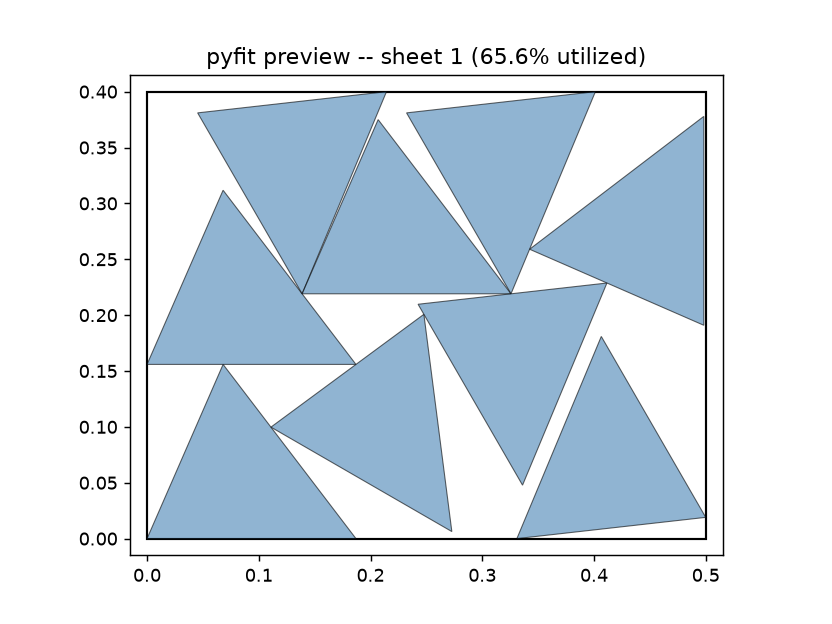
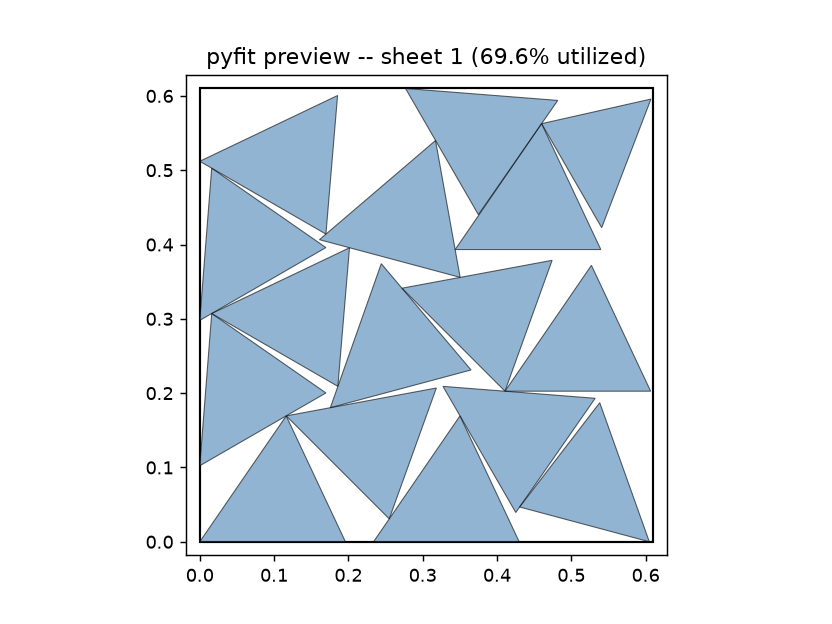
Book: revise Chapter 20 (full-Lair nest at build radius, re-run mirror experiment, new figure, Interpol heat)

diff --git a/book/chapter-20-from-bill-of-materials-to-job-spec.md b/book/chapter-20-from-bill-of-materials-to-job-spec.md
@@ -1,20 +1,22 @@
 # Chapter 20: From Bill of Materials to Job Spec — Nesting the Actual Secret Lair's Panels
 
-Chapter 19 proved pyFit works on its own terms. This chapter makes it work on pyLair's: a real job spec, built directly from the Actual Secret Lair's own bill of materials, with zero hand-typed quantities anywhere in it — and the real, sometimes surprising, numbers that come back once actual dome panels, not unit squares, are the shapes being nested.
+The CFV's concern about plywood had sharpened into a concern about trucks. Every sheet had to reach a dormant volcano by road, and a convoy of lumber trucks climbing toward an uninhabited crater is precisely the kind of thing that raises the Interpol heat. "Fewer sheets," she said, "is fewer trucks, is fewer questions." She wanted a number, and she wanted it before anyone ordered anything.
 
-## Building a Job Spec With Zero Hand-Typing
+Chapter 19 showed pyFit working on its own terms. This chapter puts it to work on pyLair's: a job spec built straight from the Actual Secret Lair's bill of materials, with no quantity typed by hand, and the numbers that come back once real dome panels, not unit squares, are being nested.
 
-Chapter 15 already generates exactly the file pyFit needs: `face_templates` writes one DXF per distinct panel shape, and the same report that triggers those files carries a **"Panel Cutting Templates"** section pairing each one with its own real panel count:
+## A Job Spec With No Hand-Typing
+
+Chapter 15 already produces the files pyFit needs: `face_templates=True` writes one DXF per distinct panel shape, and the same report carries a **"Panel Cutting Templates"** section pairing each file with its panel count. Here is the first entry, for the Lair at its build radius of 2.5 meters (one of 52):
 
 ```json
-{"template_file": "lair_facetype1.dxf", "edge_lengths": [0.248, 0.282, 0.337], "panel_count": 5}
-{"template_file": "lair_facetype2.dxf", "edge_lengths": [0.213, 0.337, 0.352], "panel_count": 5}
+{"template_file": "lair_facetype1.dxf", "edge_lengths": [0.621, 0.705, 0.843], "panel_count": 5,
+ "face_indices": [0, 17, 47, 72, 97], "chiral": false, "orientations": null}
 ```
 
-A pyFit job spec's `"parts"` list needs exactly two things per shape — a `"dxf"` path and a `"quantity"` — and this report already hands you both, paired, for every one of this dome's 52 distinct panel shapes:
+A pyFit job spec's `"parts"` list needs two things per shape, a `"dxf"` path and a `"quantity"`, and the report supplies both, already paired, for all 52 shapes:
 
 ```python
-templates = bom_report["pyLair report"]["Panel Cutting Templates"]
+templates = report["pyLair report"]["Panel Cutting Templates"]
 parts = [
     {"name": f"facetype{i+1}", "dxf": t["template_file"], "quantity": t["panel_count"], "allow_mirror": True}
     for i, t in enumerate(templates)
@@ -22,52 +24,70 @@ parts = [
 job = {"sheet": {"width": 2.44, "height": 1.22}, "parts": parts}
 ```
 
-**260 total panels, 52 distinct shapes, zero numbers typed by hand** — every quantity traced directly back to a real count pyLair itself already computed. This is the entire point of the two projects sharing nothing but a file format: pyLair never needs to know pyFit exists, and this job spec never needed anything from pyLair except files it was already writing anyway.
+**260 panels, 52 shapes, no number typed by hand**: every quantity traces to a count pyLair computed. That's the point of two projects sharing only a file format. pyLair never needs to know pyFit exists, and the job spec needs nothing from pyLair but files it was writing anyway. (`allow_mirror: True` is fine here: the Lair has no chiral panels, Chapter 14 found, and its panels are plain plywood.)
 
-## A Real Job, and a Real Lesson About Job Size
+## The Full Job, and a Lesson About Job Size
 
-Running this exact 260-panel, 52-shape job on a full-size `2.44m × 1.22m` sheet (a standard 8-foot-by-4-foot panel, in meters) is where this chapter's first honest lesson shows up, live rather than theoretical. pyFit's own documentation already warns that reusing scrap across sheets costs real search time on large jobs — every part instance tries each already-opened sheet before starting a new one, and each try means a full NFP-based candidate search against everything already placed there. On a sheet this large relative to a `~0.2`-unit panel, dozens of panels can fit before a new sheet ever opens, and the per-sheet candidate search grows with the *square* of how many panels are already placed on it.
-
-This isn't a hypothetical: the exact job above, at the default rotation step, was still running — correctly, not stuck, just genuinely working through an expensive search — several minutes in, having placed only a few dozen of its 260 panels. This is the real, lived version of the tradeoff Chapter 13 already taught for a completely different setting (`bom_rounding_precision`): a bigger, more permissive sheet doesn't just mean more material to work with, it means a much larger search space per sheet before pyFit ever opens the next one.
+The sheet is `2.44 m × 1.22 m`, a standard 8-by-4-foot panel in meters. Start with the floor on the answer: the Lair's panels cover about `60.5` square meters (pyLair's total panel area of `9.677` at radius 1, times `2.5²`), and a sheet is about `2.98`, so no layout can use fewer than 21 sheets.
 
 **Prompt:**
-> If packing feels slow on this many panels, what's the first setting you'd loosen, and what do I give up by loosening it?
+> Nest all 260 of the Lair's panels on 2.44 by 1.22 sheets with `design_nest`. Then try a 45-degree rotation step. How many sheets, and how long does each take?
 
-**What Comes Back:**
-> `rotation_step_degrees` is the direct lever, exactly the way `bom_rounding_precision` was pyLair's own precision/merge lever back in Chapter 13. The default (`15°`) tries 24 candidate orientations per part instance (more, once mirroring is allowed); widening it to `30°` or `45°` roughly halves or quarters that count, at the cost of a somewhat looser packing — real utilization measured a few percentage points lower, not a correctness problem. For a job this size, on a sheet this large relative to the panels, a coarser step is the honest, correct first thing to try before assuming something is stuck.
-
-**A second, real gotcha worth reporting exactly as encountered:** widening the rotation step and shrinking the sheet together, on this exact set of real dome-panel shapes, produced a genuine crash during this book's own testing — a `shapely.errors.GEOSException: TopologyException: side location conflict`, thrown from inside `no_fit_polygon`'s own `unary_union` call, at one specific `(rotation step, sheet size)` combination. It did not reproduce at the default rotation step on the same smaller sheet. This isn't the same, already-fixed Minkowski-sum issue Chapter 19 told in full — that one is resolved and covered by this project's own tests. This is a new, real edge case this book's own testing surfaced while nesting genuine pyLair panel geometry (irregular scalene triangles, not the toy squares Chapter 19 used to teach the underlying concept), worth knowing about rather than papering over: real geometry libraries have real edge cases, and a coarser rotation step occasionally lands on one, the same honest lesson Chapter 24 generalizes from a very different bug in a very different part of this book.
-
-## The Chirality Flag, Now a Packing Decision — With a Real Surprise
-
-Chapter 14 flagged panel shapes as chiral — genuinely different mirror-image orientations sharing one edge-length signature — and promised the flag would matter again once a real material's directionality was in play. Here's where it does: `allow_mirror` on a pyFit job-spec part is exactly this same question, asked at nesting time instead of design time. `true` (the default) lets pyFit flip a shape's template freely while searching for a placement — the right choice for plain, non-directional plywood, since a physical template can always be flipped over on ordinary material with no consequence. `false` forbids that entirely — the right choice for a one-sided pressure coating, a printed pattern, or any material where a mirrored cut is a genuinely different, unusable piece.
-
-**The Under-the-Ocean Prototype** is the real, previously-established reason this matters: Chapter 14 found its own elongated hull genuinely riddled with chiral panel pairs (`30` of its `42` shape groups). Its hull uses a one-sided pressure coating, so `allow_mirror: false` isn't a cautious default here — it's the physically correct one. Nesting a real subset of its own chiral panel shapes (six shape groups, `120` real panels) both ways:
+**What Comes Back** (two runs of `run_nest`, the engine under `design_nest`, timed; utilization summarized):
 
 ```json
-{"allow_mirror": true,  "sheets_used": 3, "utilization_by_sheet": [0.641, 0.611, 0.058]}
-{"allow_mirror": false, "sheets_used": 2, "utilization_by_sheet": [0.656, 0.655]}
+{"rotation_step_degrees": 15, "sheets_used": 30, "best_sheet": 0.895, "last_sheet": 0.108, "seconds": 1017}
+{"rotation_step_degrees": 45, "sheets_used": 32, "best_sheet": 0.841, "last_sheet": 0.185, "seconds": 318}
 ```
 
-**[IMAGE: examples/images/ocean_nest_mirror_true.png | Two real nesting results for the same chiral panel batch, allow_mirror true producing 3 sheets and allow_mirror false producing 2]**
-**[CAPTION: The same real chiral panel batch, nested both ways — `allow_mirror: true` (left, 3 sheets) and `allow_mirror: false` (right, 2 sheets). Both are real, legal layouts; the flag did not cost this batch an extra sheet.]**
+**What It Means:** Thirty sheets at the default step, against a floor of 21: most sheets come out between 55% and 90% full, and the last holds a few stragglers. The default took about 17 minutes (on a machine also running the other job), and the 45° step about 5 minutes for two more sheets. That is the lived version of a warning in pyFit's documentation: every part tries each already-opened sheet before a new one opens, and each try is a full no-fit-polygon search against everything on that sheet, so a big sheet that holds many panels makes every placement more expensive. It's the same shape of tradeoff Chapter 13 taught for `bom_rounding_precision`: more permissive isn't simply better.
 
-**[IMAGE: examples/images/ocean_nest_mirror_false.png | The allow_mirror false version of the same batch, using 2 sheets instead of 3]**
-**[CAPTION: TODO-CAPTION]**
-
-**Prompt:**
-> Nest it once with mirroring allowed, once without. How much does disallowing mirroring change the sheet count or utilization?
-
-**What Comes Back:** Here's the real, worth-stating-honestly surprise: disallowing mirroring used *fewer* sheets, not more — `2` against `3`, and higher utilization on both sheets it did use. This is the opposite of the intuitive assumption that removing a degree of freedom can only make packing worse.
-
-**What It Means:** Chapter 19 already told you why this can happen, and this is a real, concrete instance of it rather than a hedge: pyFit is a bottom-left-fill *heuristic*, not an exhaustive search, and a heuristic's greedy choices can go in a different, sometimes better, sometimes worse, direction depending on which candidate orientations happen to be available at each step — more legal options at every step doesn't guarantee a better *overall* sequence of greedy choices, only a larger space to choose the next one from. The honest takeaway isn't "disallowing mirroring improves packing" as a rule — a different panel batch, a different sheet size, or a different rotation step could easily flip this result the other way. It's this: **run both, and trust the real reported utilization for your actual job, not an assumption about which direction the flag should push it.**
+**[IMAGE: examples/images/lair_full_nest_sheet1.png | A pyFit preview of one 2.44-by-1.22 sheet packed with large and small triangular dome panels, interlocking point to base; the title reads 89.5 percent utilized.]**
+**[CAPTION: The first of 30 sheets for the Actual Secret Lair at its 2.5-meter radius, at the default 15° rotation step: 89.5% utilized, the best sheet of the job.]**
 
 **Prompt:**
-> If I'm using plain plywood with no grain direction, does the chirality flag actually matter for my build?
+> If packing feels slow on this many panels, what's the first setting you'd loosen, and what do I give up?
 
-**What Comes Back:** No — reusing Chapter 14's own answer to the identical question, unchanged by anything this chapter added: non-directional material can be flipped freely with no physical consequence, so `allow_mirror: true` costs nothing and gains pyFit its full search space. The flag, and this chapter's own surprising result, only matter once the material itself has a real direction that a flipped cut would actually violate.
+**What Comes Back:**
+> `rotation_step_degrees` is the direct lever. The default, `15°`, tries 24 orientations per part (twice that when mirroring is allowed); `45°` tries 8. You give up packing quality, usually a little: on this job, two extra sheets for about a third of the time. It's not a correctness problem, since every placement is still checked. On a job this size, try a coarser step before assuming something is stuck, and go back to the default for the run you'll actually cut from.
+
+The first draft of this book recorded one more surprise: a crash, `shapely.errors.GEOSException: TopologyException: side location conflict`, from inside `no_fit_polygon`, at one combination of a coarse rotation step and a smaller sheet with real dome panels. None of this revision's runs reproduced it. Geometry libraries do have edge cases that only irregular, real shapes reach; if you hit one, report the job spec that triggered it rather than assuming your design is at fault.
+
+The CFV took the 30. At ten sheets to a truck, that's three trucks, which she could disguise as a hardware delivery. Thirty-two would have needed a fourth truck, and she pointed out that it's always the fourth truck that someone remembers.
+
+## The Chirality Flag, Now a Packing Decision
+
+Chapter 14 flagged panel shapes as chiral, mirror-image orientations sharing one edge-length signature, and promised the flag would matter again once a material's direction was in play. Here it does. `allow_mirror` on a job-spec part asks the same question at nesting time. `true` (the default) lets pyFit flip a shape freely while searching, right for plain plywood, where a flipped template is harmless. `false` forbids it, right for a one-sided pressure coating, a printed pattern, or any material where a mirrored cut is a different, unusable piece.
+
+**The Under-the-Ocean Prototype** is where it matters. Its frequency-6 hull, squashed to `0.9` on Z, has 42 panel shape groups, and 30 of them are chiral; it's a Class I sphere, so it contains both hands of every lopsided panel (Chapter 14). Its hull carries a one-sided pressure coating, so `allow_mirror: false` isn't caution; it's the physically correct setting. Take six of its chiral groups, 120 panels, and nest them both ways on `0.61 × 0.61` sheets (two-foot squares; the Prototype is modeled at radius 1):
+
+**Prompt:**
+> Nest it once with mirroring allowed and once without. How much does disallowing mirroring change the sheet count or utilization?
+
+**What Comes Back** (two runs of `run_nest`, the engine under `design_nest`, timed; utilization rounded):
+
+```json
+{"allow_mirror": true,  "sheets_used": 8, "utilization_by_sheet": [0.657, 0.686, 0.648, 0.635, 0.659, 0.642, 0.640, 0.156], "seconds": 835}
+{"allow_mirror": false, "sheets_used": 7, "utilization_by_sheet": [0.696, 0.660, 0.723, 0.705, 0.705, 0.667, 0.569], "seconds": 448}
+```
+
+**[IMAGE: examples/images/ocean_nest_mirror_true.png | A pyFit preview of one small square sheet packed with about a dozen triangular panels, some of them flipped.]**
+**[CAPTION: The first of 8 sheets for six of the Under-the-Ocean Prototype's chiral panel groups with `allow_mirror: true`.]**
+
+**[IMAGE: examples/images/ocean_nest_mirror_false.png | A pyFit preview of one small square sheet packed with triangular panels, none of them flipped.]**
+**[CAPTION: The first of 7 sheets for the same 120 panels with `allow_mirror: false`: fewer sheets, though the packer had fewer options.]**
+
+**What It Means:** Here's the surprise: forbidding mirroring used *fewer* sheets, 7 against 8, with higher utilization on most of them, and it finished in about half the time, since there were half as many orientations to try. That's the opposite of the intuition that removing a degree of freedom can only make packing worse.
+
+Chapter 19 explains why it can happen. pyFit is a bottom-left-fill *heuristic*, not an exhaustive search, and its greedy choices go wherever the available options lead at each step. More legal options at every step doesn't guarantee a better *sequence* of greedy choices, only a bigger menu for the next one. The lesson isn't "disallow mirroring to save plywood": another batch, sheet size, or rotation step could flip the result. It's this: **run both, and trust the measured utilization for your job, not an assumption about which way the setting should push it.**
+
+**Prompt:**
+> If I'm using plain plywood with no grain direction, does the chirality flag matter for my build?
+
+**What Comes Back:** Not physically; that's Chapter 14's answer, unchanged. Non-directional material can be flipped freely, so `allow_mirror: true` costs nothing physically and gives pyFit its full search. The flag, and this chapter's surprise, matter only when the material has a direction that a flipped cut would violate. Even then, the only way to know what it costs you in sheets is to nest both ways and look.
 
 ## What's Next
 
-Chapter 21 covers pyFit's own four MCP tools — the same iterate-then-commit shape Chapter 18 already taught for pyLair, plus a genuinely new idea neither dome design ever needed: MCP progress notifications on a job long enough to need them — and closes with one complete, narrated session spanning both toolkits, from a bare polyhedron choice all the way to a real, ready-to-cut sheet layout.
+Three trucks left for the crater on three different days, with three different hardware-store logos on their doors. The Interpol heat, by the CFV's own index, did not move.
 
+Chapter 21 covers pyFit's four MCP tools, the same iterate-then-commit shape Chapter 18 taught for pyLair, plus one idea no dome design ever needed: progress reports on a job long enough to need them, like the 17-minute one above. It closes with one complete session spanning both toolkits, from a bare polyhedron to a ready-to-cut sheet layout.
